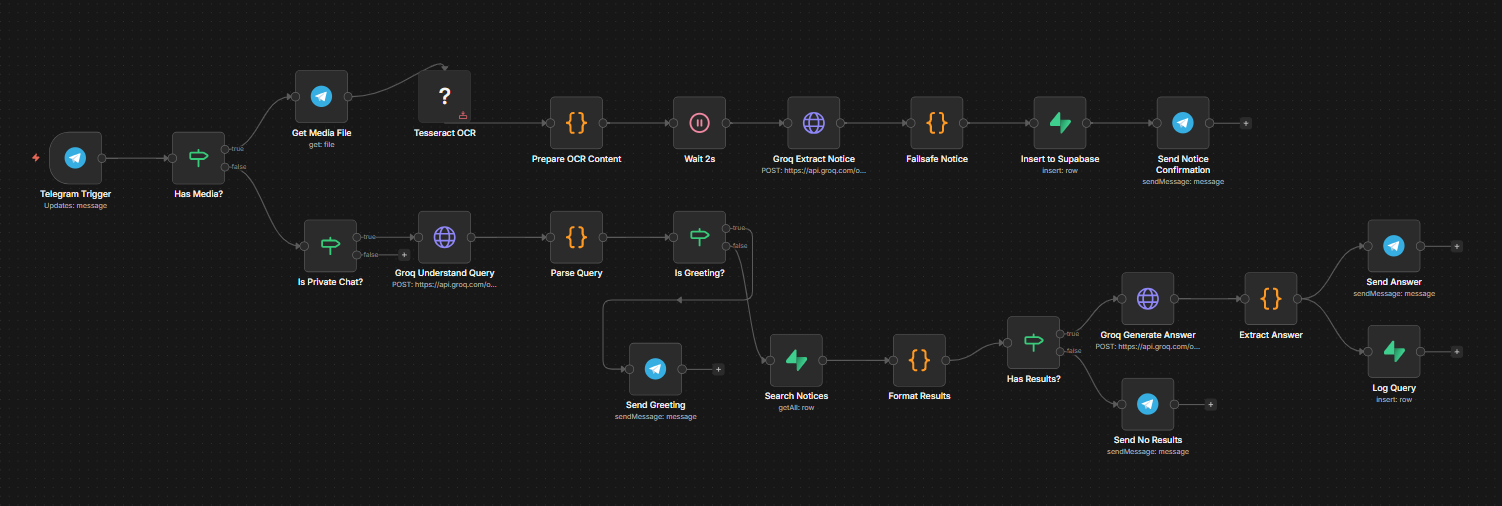
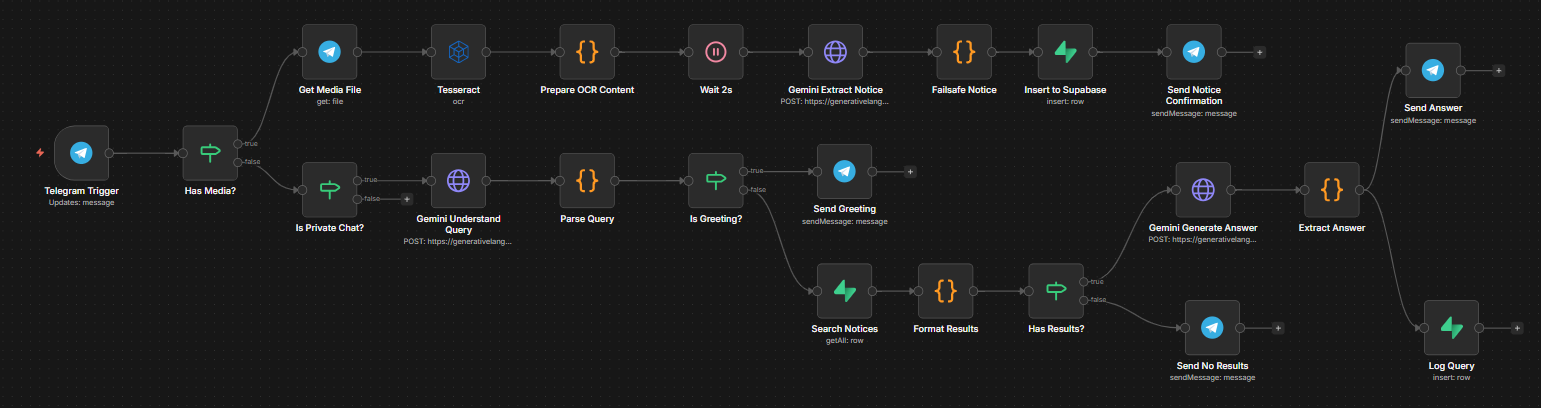
Update workflow diagram and make bot link prominent

diff --git a/README.md b/README.md
@@ -5,7 +5,13 @@
 ![Status](https://img.shields.io/badge/Status-Active-success)
 ![Top Language](https://img.shields.io/badge/Platform-n8n-orange)
 ![AI](https://img.shields.io/badge/AI-Google_Gemini_1.5-blue)
-[![Telegram](https://img.shields.io/badge/Telegram-Start_Bot-blue?logo=telegram)](https://t.me/GubJiggasha_bot)
+
+<div align="center">
+  <a href="https://t.me/GubJiggasha_bot">
+    <img src="https://img.shields.io/badge/🤖_Start_GUB_Jiggasha_Bot-Click_Here-2ea44f?style=for-the-badge&logo=telegram" alt="Start Bot" height="50" />
+  </a>
+</div>
+
 
 > [!NOTE]
 > **Data Status:** Currently, the bot contains limited information. Full data and notices for the **Spring 26** semester will be available very soon!
